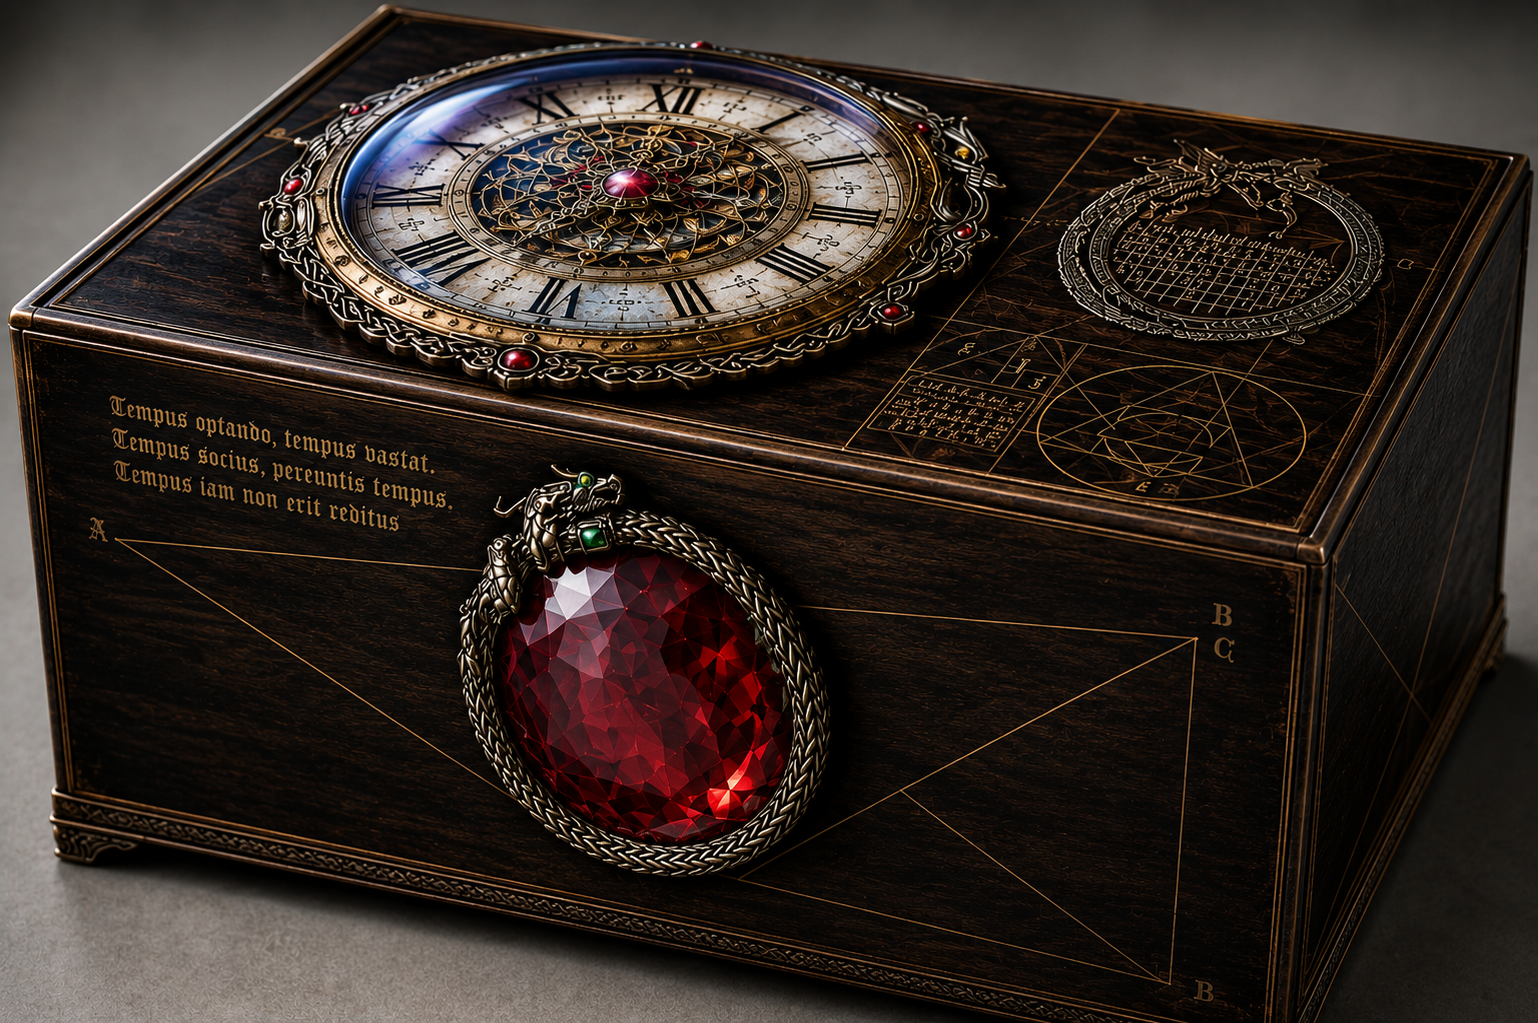
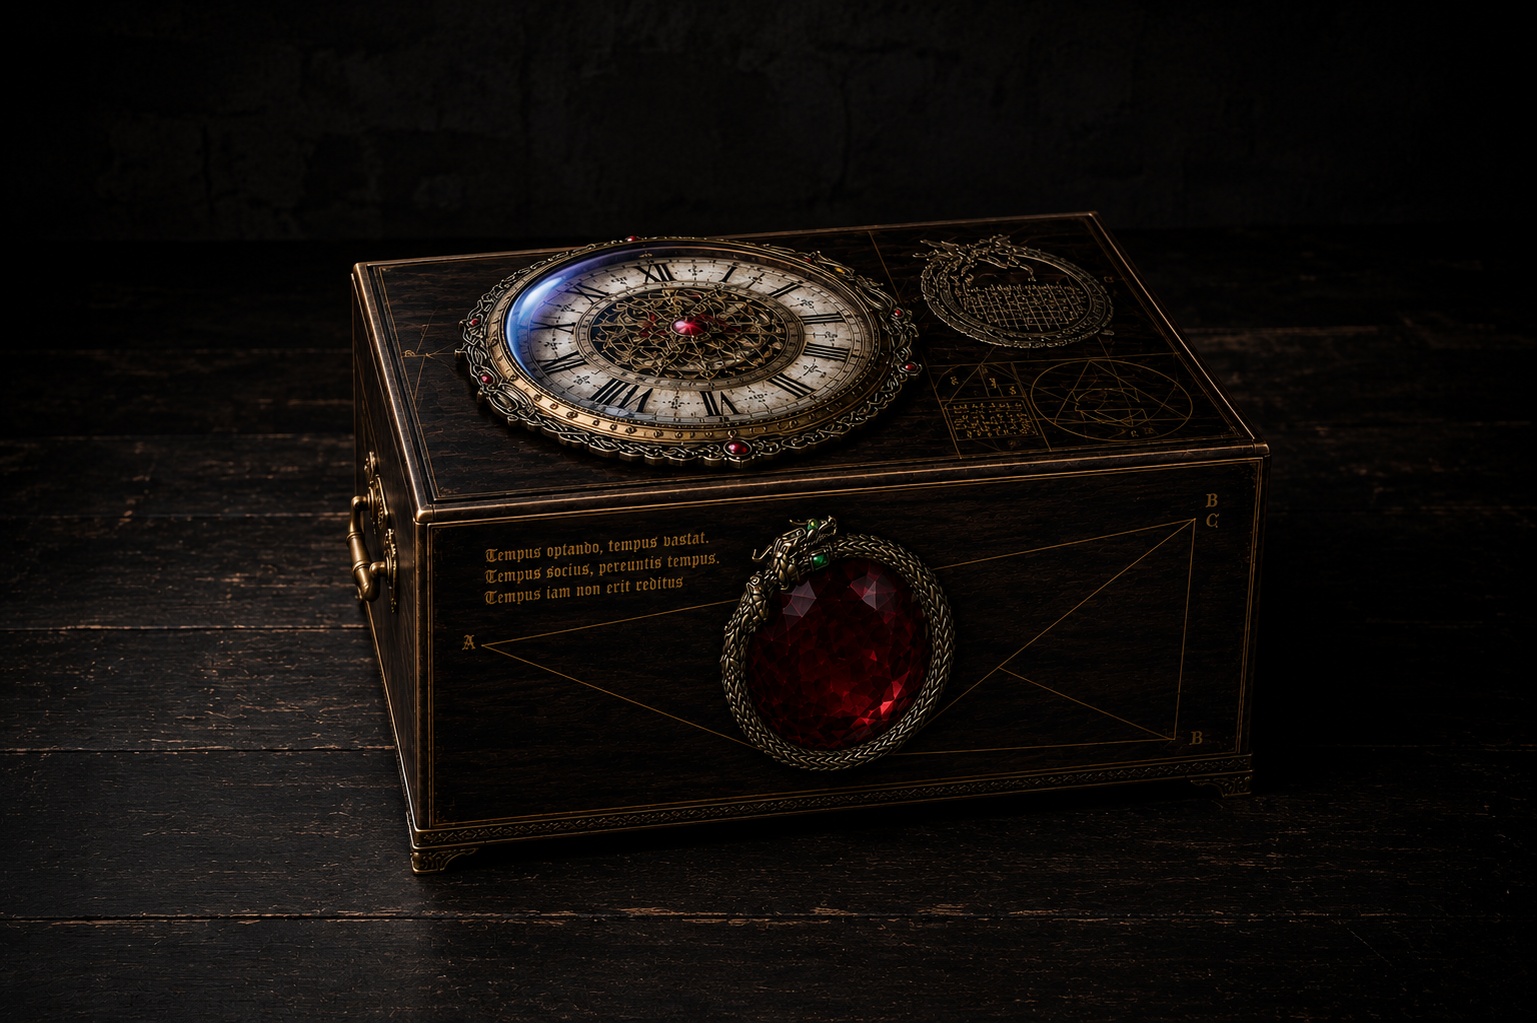
CAMBIA LA CAJA

diff --git a/app/el-enigma-de-la-caja-del-tiempo/page.tsx b/app/el-enigma-de-la-caja-del-tiempo/page.tsx
@@ -71,7 +71,7 @@ export default function EnigmaPage() {
             <figure className="mt-10 max-w-sm overflow-hidden border border-gold/20 bg-panel/40 p-2 shadow-2xl shadow-black/30">
               <Image
                 src="/assets/caja-del-tiempo-completa.png"
-                width={1538}
+                width={1537}
                 height={1023}
                 alt="La Caja del Tiempo completa con su reloj, símbolos y rubí"
                 className="h-auto w-full object-contain"
